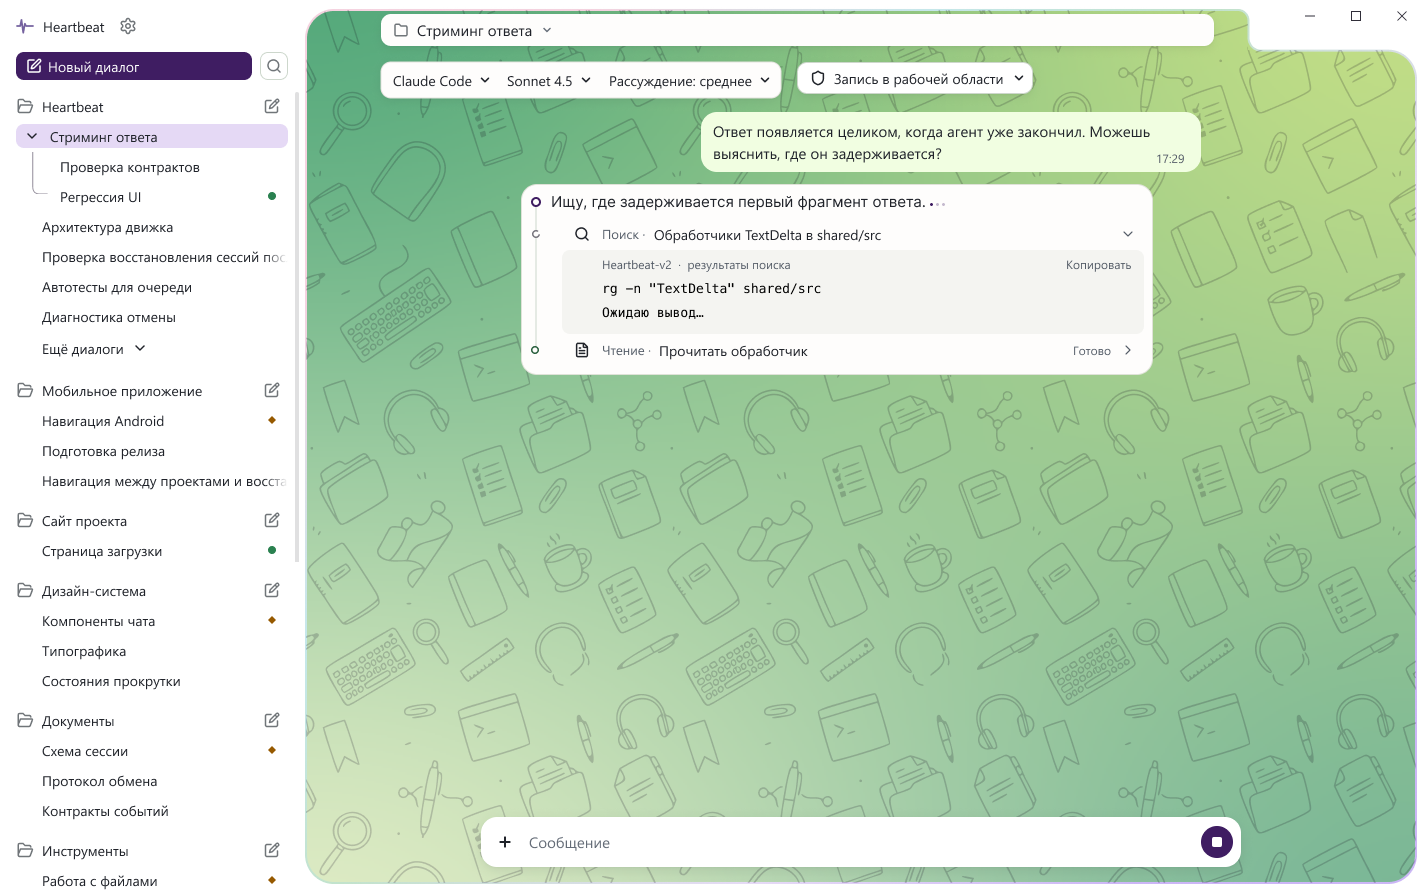
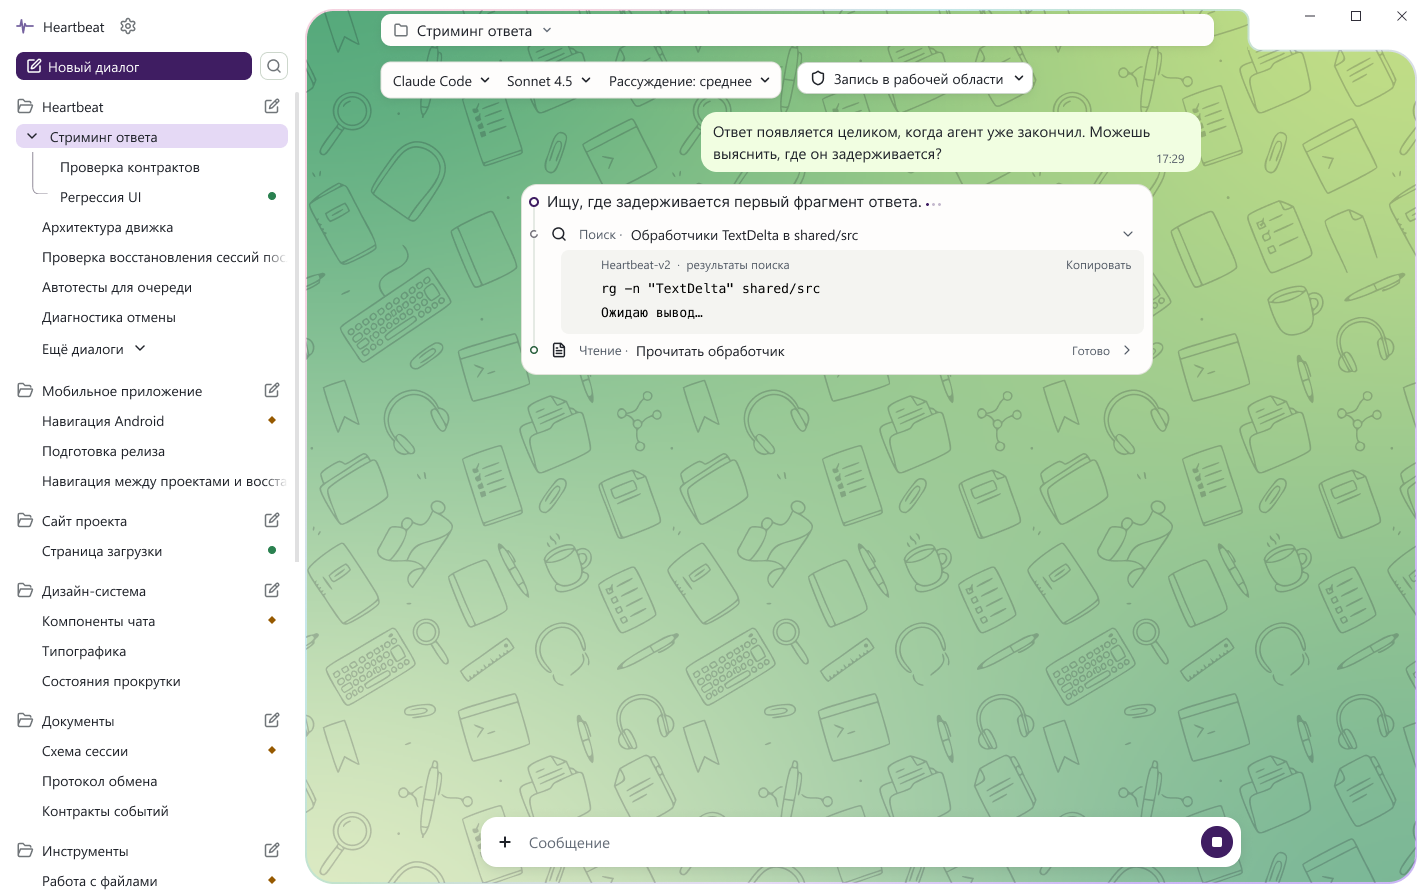
Align activity markers, labels and timeline endpoints across Desktop flows

Changed region(s): [[0.3703, 0.2116, 0.648, 0.3628], [0.3703, 0.3628, 0.5554, 0.4233]]

diff --git a/specs/desktop-aurora-agent-workspace.md b/specs/desktop-aurora-agent-workspace.md
@@ -34,7 +34,7 @@
 
 ## Текущий этап
 
-В строке с первым вызовом от верхней границы облачка до текстового блока цели — 8 dp. По горизонтали до кольца, само кольцо и промежуток от кольца до подписи занимают по 10 dp. Центр кольца совпадает с серединой первой строки текста. [Первый вызов в Figma](https://www.figma.com/design/ivLmgulIBIkMzOw8sgvKxj/Aurora-DS?node-id=478-106157)
+В строке с первым вызовом от верхней границы облачка до текстового блока цели — 8 dp. От левого края облачка до кольца — 8 dp. Диаметр кольца — 10 dp. От кольца до текста цели — ещё 8 dp. Центр кольца совпадает с серединой первой строки текста. [Первый вызов в Figma](https://www.figma.com/design/ivLmgulIBIkMzOw8sgvKxj/Aurora-DS?node-id=478-106157)
 
 На месте подписи ожидания появляется публичная цель агента, например «Проверяю остановку потока». Кольцо пульсирует во время обмена с LLM, три точки анимируются сразу после подписи. При уменьшенном движении кольцо и точки статичны. Диктор сообщает о начале ожидания один раз. Текущий этап всегда открыт. Его заголовок не имеет шеврона, а строка «Ход работы» появляется после окончания ответа.
 
@@ -42,9 +42,9 @@
 
 ## Хронология и инструменты
 
-В хронологии с несколькими этапами от левого края облачка до закрашенной точки диаметром 8 dp — 10 dp. Центр точки и ось линии находятся в 14 dp от края. У кольца диаметром 10 dp на той же оси отступ составляет 9 dp. [Снимок с тремя завершёнными этапами](../previews/desktop-agent-turns/stage-marker-inset.png)
+В хронологии маркеры занимают колонку шириной 10 dp с отступом 8 dp от левого края облачка. Линия проходит в 13 dp от края, через центры закрашенной точки диаметром 8 dp и фиолетового кольца диаметром 10 dp. При продолжении работы линия соединяет последнюю завершённую операцию и новый активный ход. [Снимок продолжения](../previews/desktop-agent-turns/resumed-timeline.png). [Снимок с тремя завершёнными этапами](../previews/desktop-agent-turns/stage-marker-inset.png)
 
-В активном ответе левый край кольца находится в 10 dp от края облачка. Линия проходит через центр кольца и маркеров инструментов. В прерванном ответе левый край маркера и начало текста ошибки стоят на одной вертикали, в 10 dp от края облачка. [Снимок прерванного ответа](../previews/desktop-agent-turns/interrupted-reply-alignment.png)
+В прерванном ответе с одним вызовом левый край маркера и начало текста ошибки стоят на одной вертикали, в 8 dp от края облачка. [Снимок прерванного ответа](../previews/desktop-agent-turns/interrupted-reply-alignment.png)
 
 У ответа одна вертикальная линия толщиной 1 dp. Она соединяет центры первого и последнего видимых маркеров. Строки этапов и инструментов стоят на общей оси. У пользовательской реплики с временем в строке вертикальные поля составляют 8 dp. У финального ответа со свёрнутой историей верхнее поле карточки также 8 dp. [Геометрия и компоненты](../design-system.md#ход-работы-инструменты-и-thinking)
 
